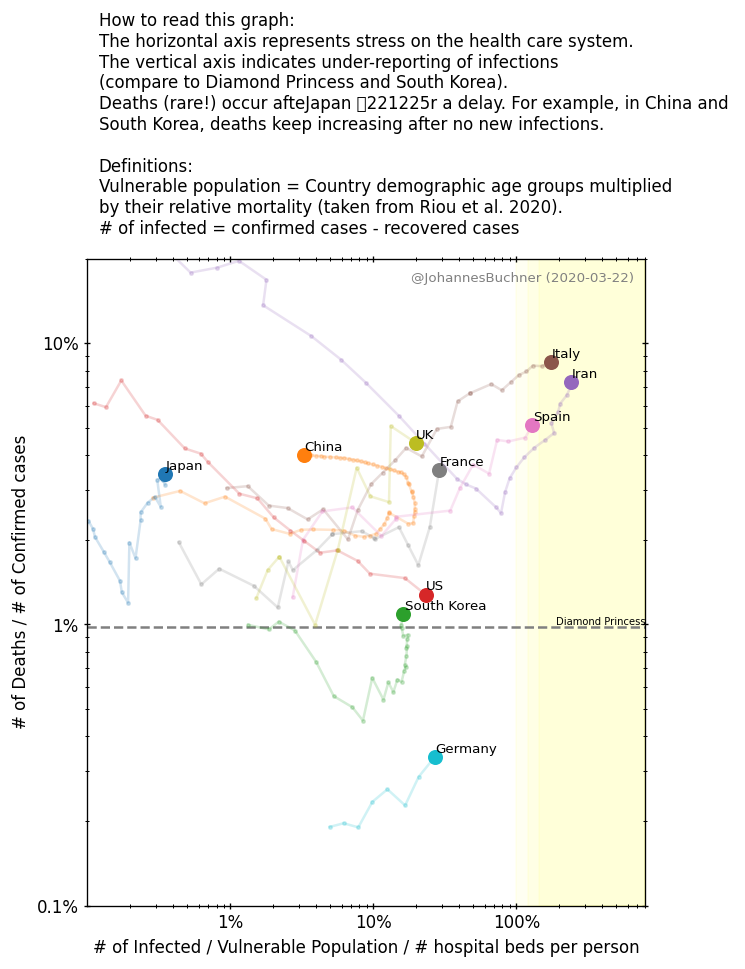
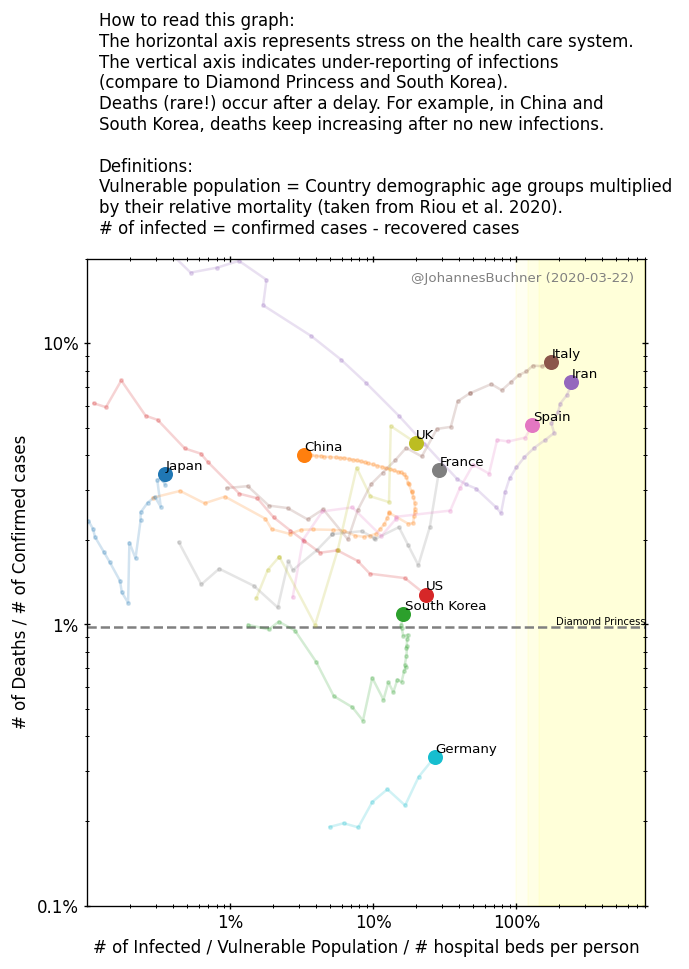
typo

diff --git a/ratio.py b/ratio.py
@@ -291,7 +291,7 @@ bx.text(0.02, 1.0, """How to read this graph:
 The horizontal axis represents stress on the health care system.
 The vertical axis indicates under-reporting of infections
 (compare to Diamond Princess and South Korea).
-Deaths (rare!) occur afteJapan 	221225r a delay. For example, in China and 
+Deaths (rare!) occur after a delay. For example, in China and 
 South Korea, deaths keep increasing after no new infections.
 
 Definitions:
